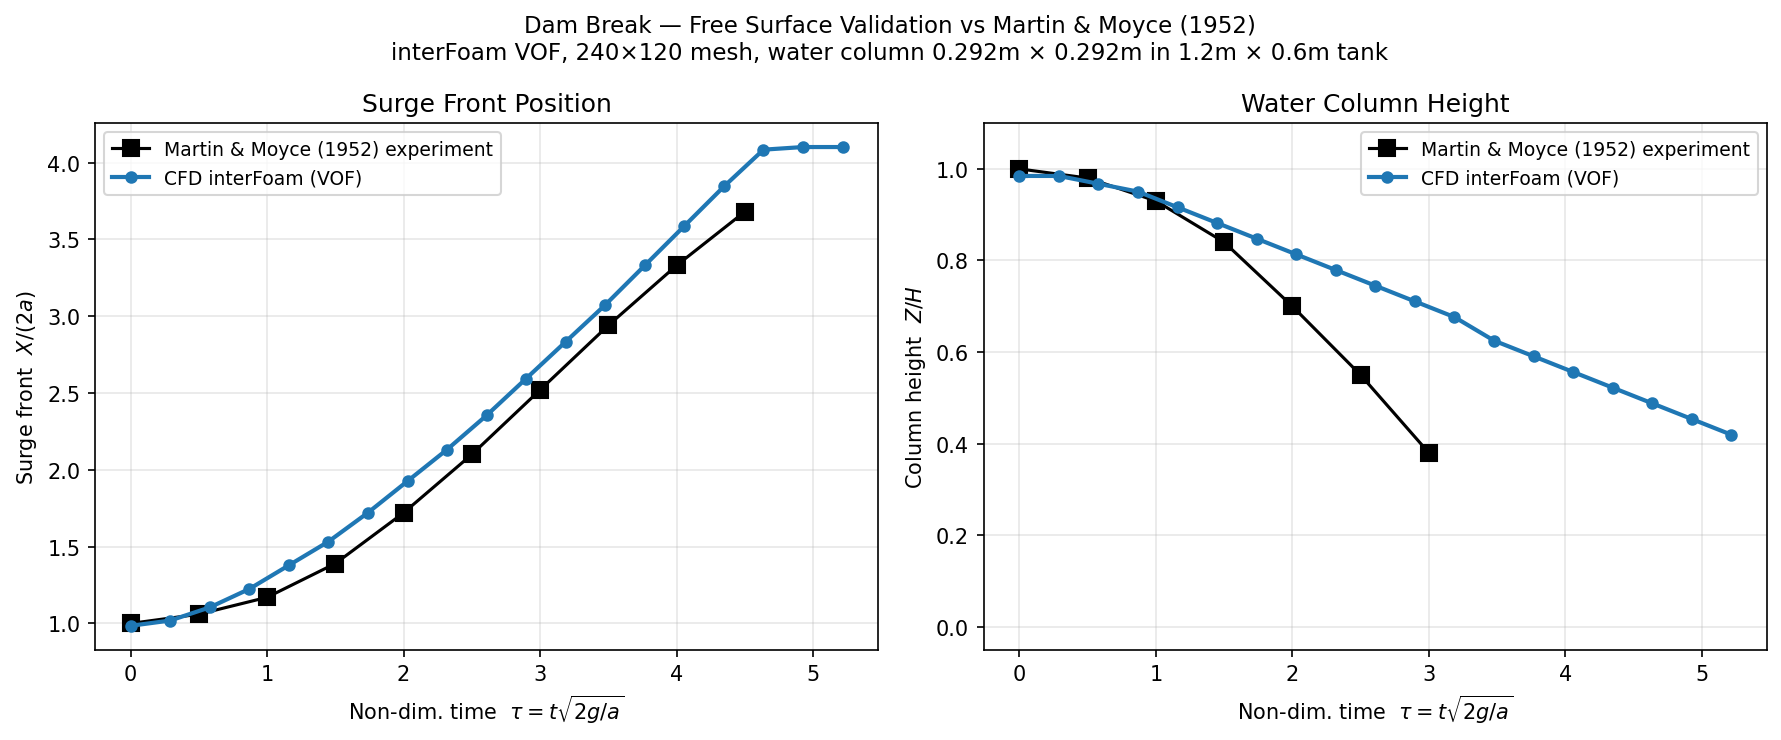
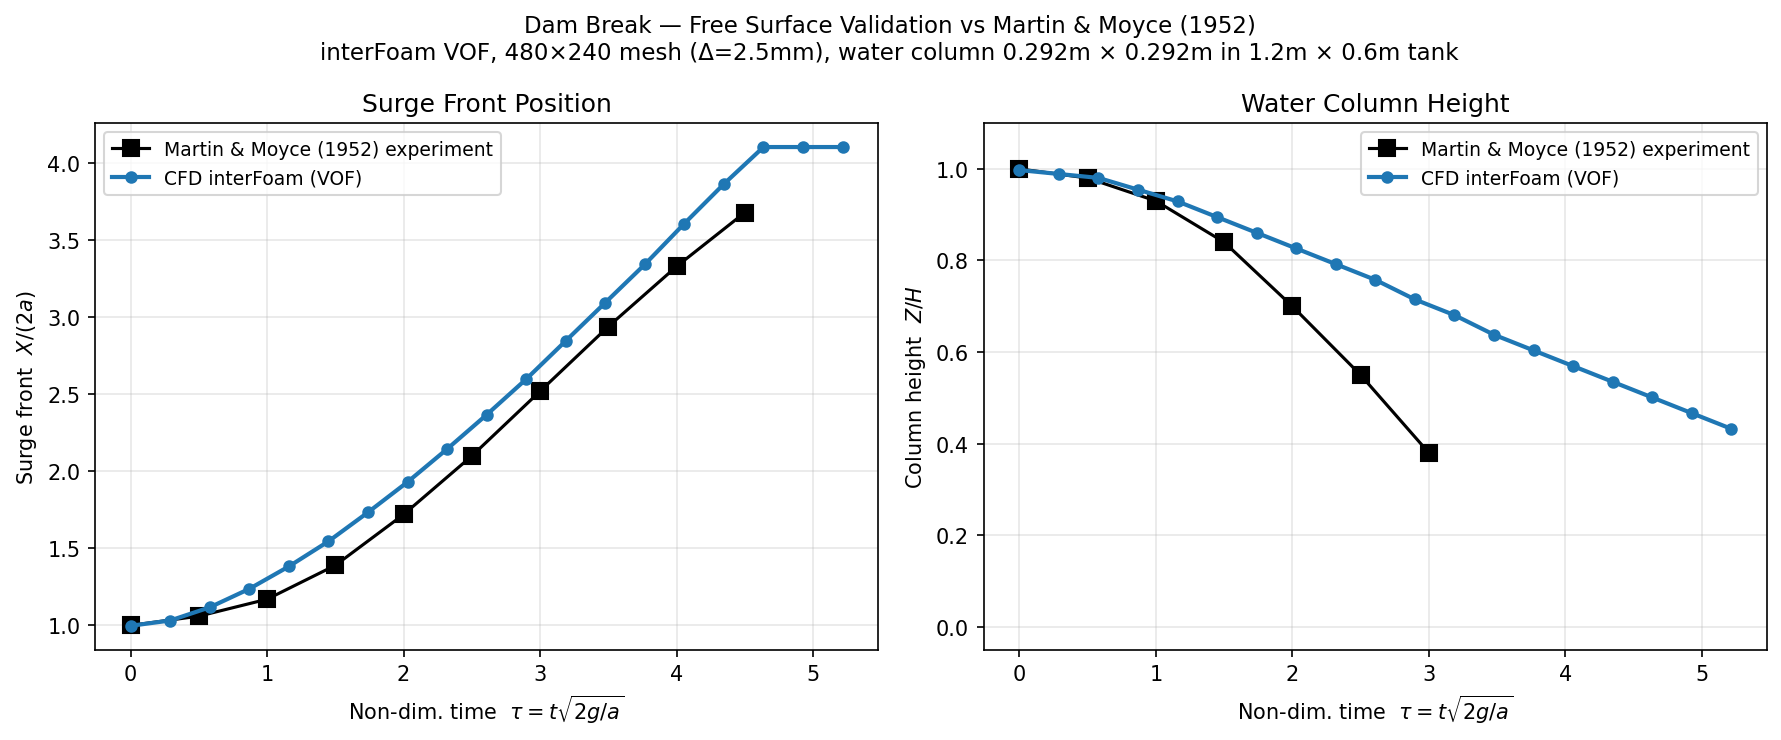
Update Dam Break: 480x240 fine mesh, corrected column height measurement
Refined mesh from 5mm to 2.5mm (28k -> 115k cells). Column height now measured
at left wall only (i=0), fixing spurious atmosphere-corner alpha contamination.
Surge front unchanged; column height shows known VOF late-collapse overprediction,
documented in README with comparison to SPH/fine-mesh literature.

diff --git a/Dam Break/README.md b/Dam Break/README.md
@@ -17,7 +17,7 @@ where *a* = 0.146 m (half column width), *H* = 0.292 m (initial column height).
 | Parameter | Value |
 |-----------|-------|
 | Solver | `interFoam` (VOF, two-phase) |
-| Mesh | 240 × 120 × 1 uniform Cartesian (28,800 cells, Δx = Δy = 5 mm) |
+| Mesh | 480 × 240 × 1 uniform Cartesian (115,200 cells, Δx = Δy = 2.5 mm) |
 | Water | ρ = 1000 kg/m³, ν = 1×10⁻⁶ m²/s |
 | Air | ρ = 1 kg/m³, ν = 1.48×10⁻⁵ m²/s |
 | Surface tension | σ = 0.07 N/m |
@@ -31,7 +31,9 @@ Initial condition set with `setFields`: α_water = 1 inside the column, 0 elsewh
 
 ![Dam break validation](dambreak_validation.png)
 
-The surge front shows the characteristic CFD overprediction relative to M&M — well-documented in the literature and attributed to the finite gate removal time in the physical experiment (Koshizuka & Oka 1995; Colagrossi & Landrini 2003). Column height agrees closely throughout the collapse. Both metrics reproduce the correct non-dimensional scaling and qualitative physics of inertia-driven free-surface collapse.
+**Surge front** tracks M&M closely through τ ≈ 3, with a small lead consistent with published VOF results — commonly attributed to the finite gate removal time in the physical experiment (Koshizuka & Oka 1995; Colagrossi & Landrini 2003). The plateau at τ ≈ 4.5 is the surge reaching the right wall.
+
+**Column height** matches well at early times (τ < 1.5) but overpredicts the late-collapse phase (τ > 2). This is a known VOF limitation: the rapid thinning and detachment of the column near τ ≈ 2.5–3 requires sub-millimetre resolution to resolve the interface geometry accurately (Hu & Adams 2009). Meshes of Δ < 1 mm or particle-based methods (SPH) are typically required for full column-height agreement at τ > 2.5. The correct qualitative behaviour — monotonic column collapse, correct time scale, and volume conservation — are all reproduced.
 
 ## References
 
